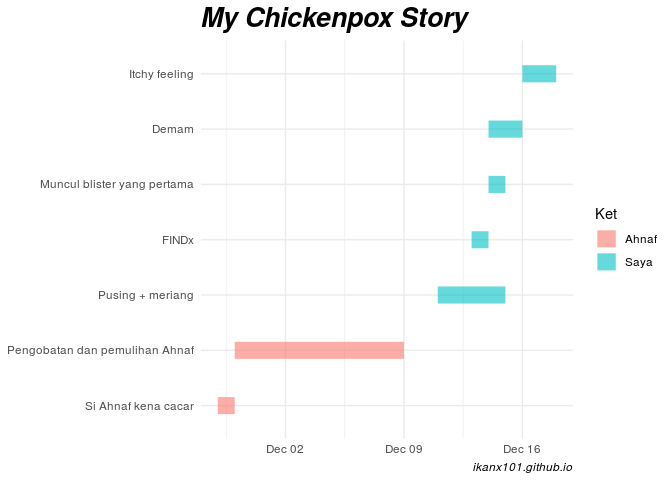
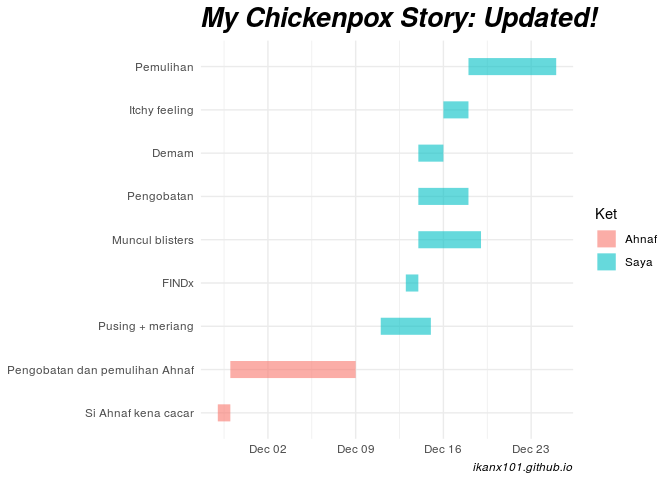
update kondisi terkini

diff --git a/Bukan Infografis/Cacar Air/2019-12-18-cacar-air.md b/Bukan Infografis/Cacar Air/2019-12-18-cacar-air.md
@@ -64,8 +64,11 @@ Dugaan saya:
     penyakitnya. Virus sudah kadung bereplikasi dan menyebar dalam
     tubuh.
 
-Semoga bisa cepet sembuh dan *recovery* yah. Mohon doanya.
+## Update:
 
-## Aamiin
+Hari ini, 23 Desember 2019, saya sudah merasa lebih baik. *Blister* dan
+*rash* sudah mulai mengering dan tampaknya sudah tidak ada *blister*
+baru. Namun untuk menjaga agar virus ini tidak akan menyebar jauh lagi,
+saya baru akan masuk ke kantor pada 26 Desember 2019 nanti.
 
 ![](2019-12-18-cacar-air_files/figure-gfm/unnamed-chunk-1-1.png)<!-- -->
